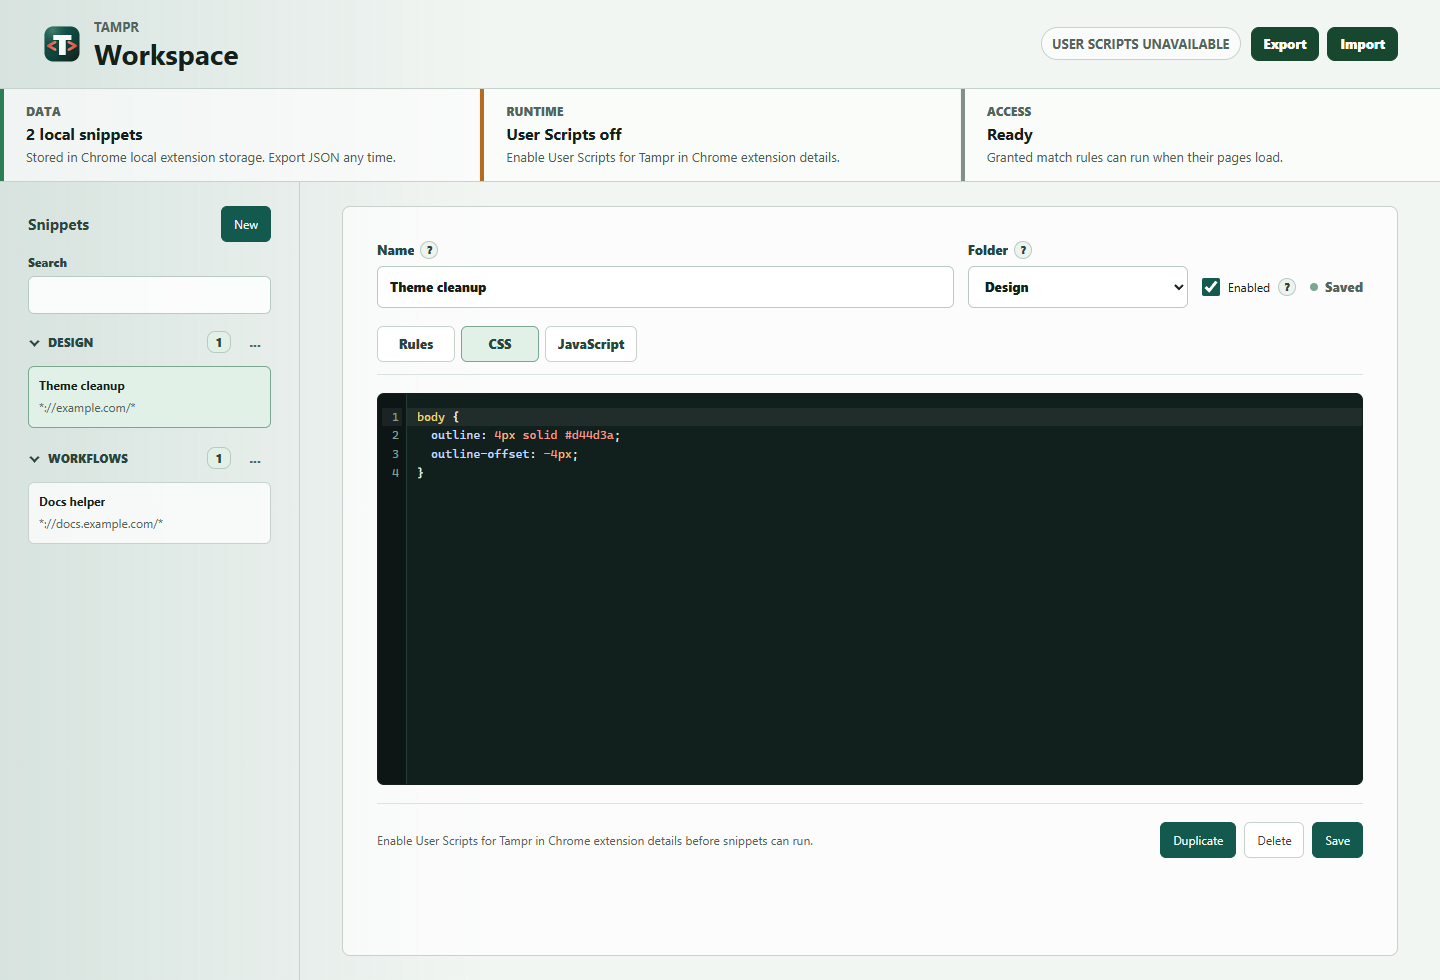
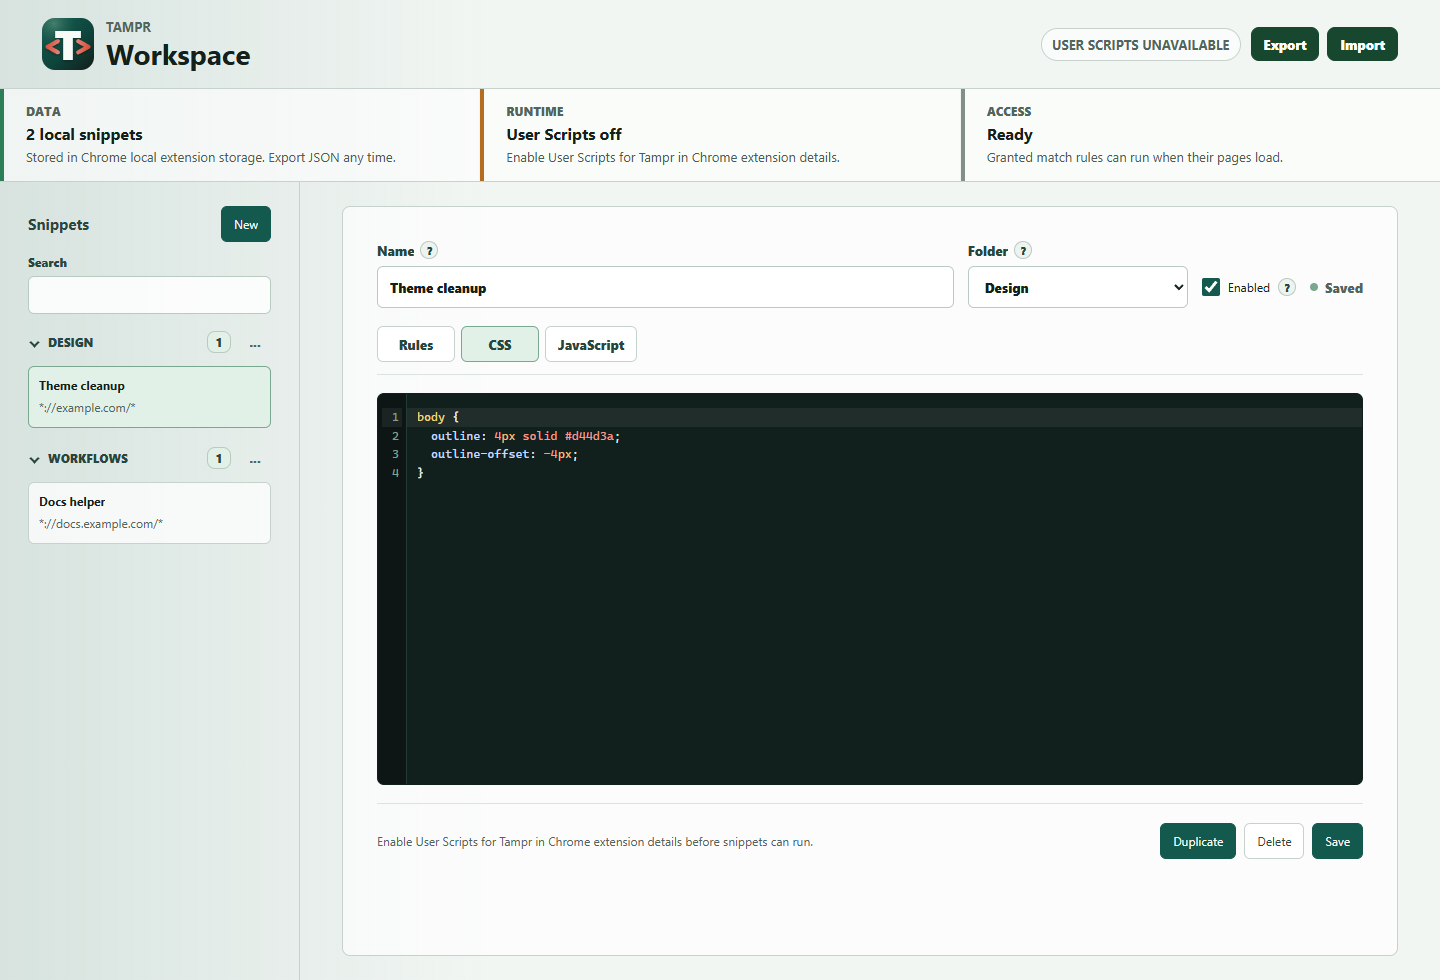
style: simplify runtime status UI

diff --git a/src/shared/runtime-trust.ts b/src/shared/runtime-trust.ts
@@ -128,15 +128,16 @@ function runtimeTrustItem(runtime: RuntimeStatus): TrustItem {
     };
   }
 
+  const hasRegistrations = runtime.registrations > 0;
+
   return {
     id: 'runtime',
     label: 'Runtime',
-    value: `${runtime.registrations} ${plural(
-      runtime.registrations,
-      'registration',
-    )}`,
-    detail: 'Registered from saved local snippets.',
-    tone: runtime.registrations > 0 ? 'ready' : 'neutral',
+    value: hasRegistrations ? 'Synced' : 'Ready',
+    detail: hasRegistrations
+      ? 'Saved local snippets are synced to Chrome runtime.'
+      : 'Chrome runtime is ready for saved snippets.',
+    tone: hasRegistrations ? 'ready' : 'neutral',
   };
 }
 

diff --git a/src/workspace/components/WorkspaceHeader/WorkspaceHeader.test.tsx b/src/workspace/components/WorkspaceHeader/WorkspaceHeader.test.tsx
@@ -9,11 +9,11 @@ import { WorkspaceHeader } from './WorkspaceHeader';
 afterEach(cleanup);
 
 describe('WorkspaceHeader', () => {
-  it('shows runtime registration status', () => {
+  it('shows runtime sync status', () => {
     render(<WorkspaceHeader workspace={createWorkspaceState()} />);
 
     expect(screen.getByRole('heading', { name: 'Workspace' })).toBeTruthy();
-    expect(screen.getByText('2 registrations')).toBeTruthy();
+    expect(screen.getByText('Runtime synced')).toBeTruthy();
   });
 });
 

diff --git a/src/workspace/runtime-copy.ts b/src/workspace/runtime-copy.ts
@@ -7,7 +7,9 @@ export function runtimeLabel(workspace: WorkspaceState | undefined): string {
   }
 
   if (workspace.runtime.state === 'ready') {
-    return `${workspace.runtime.registrations} registrations`;
+    return workspace.runtime.registrations > 0
+      ? 'Runtime synced'
+      : 'Runtime ready';
   }
 
   return workspace.runtime.state === 'sync-error'

diff --git a/src/workspace/components/TrustStrip/TrustStrip.test.tsx b/src/workspace/components/TrustStrip/TrustStrip.test.tsx
@@ -13,7 +13,7 @@ describe('TrustStrip', () => {
     render(<TrustStrip workspace={createWorkspaceState()} />);
 
     expect(screen.getByText('2 local snippets')).toBeTruthy();
-    expect(screen.getByText('1 registration')).toBeTruthy();
+    expect(screen.getByText('Synced')).toBeTruthy();
     expect(screen.getByText('1 needs access')).toBeTruthy();
   });
 

diff --git a/tests/unit/runtime-trust.test.ts b/tests/unit/runtime-trust.test.ts
@@ -49,7 +49,7 @@ describe('runtime trust copy', () => {
 
     expect(items.map((item) => item.value)).toEqual([
       '0 local snippets',
-      '0 registrations',
+      'Ready',
       '1 rule issue',
     ]);
     expect(items[2]?.tone).toBe('danger');

diff --git a/src/popup/App.module.scss b/src/popup/App.module.scss
@@ -30,8 +30,8 @@
 
   img {
     flex: 0 0 auto;
-    height: 34px;
-    width: 34px;
+    height: 42px;
+    width: 42px;
   }
 }
 

diff --git a/src/workspace/components/WorkspaceHeader/WorkspaceHeader.module.scss b/src/workspace/components/WorkspaceHeader/WorkspaceHeader.module.scss
@@ -32,8 +32,8 @@
 
   img {
     flex: 0 0 auto;
-    height: 40px;
-    width: 40px;
+    height: 52px;
+    width: 52px;
   }
 }
 

diff --git a/CHANGELOG.md b/CHANGELOG.md
@@ -22,6 +22,7 @@ group changes under the headings below.
 - Lightweight, persistent, collapsible folder grouping for workspace snippets.
 - Folder rename and delete-to-General management from the workspace rail.
 - Auto-save when moving saved snippets between folders.
+- Runtime status copy that avoids exposing raw registration counts.
 - Browser downloads support for workspace exports.
 - Constrained `Tampr.download()` runtime API for user-script world snippets,
   supporting generated text and validated http/https URL downloads.
